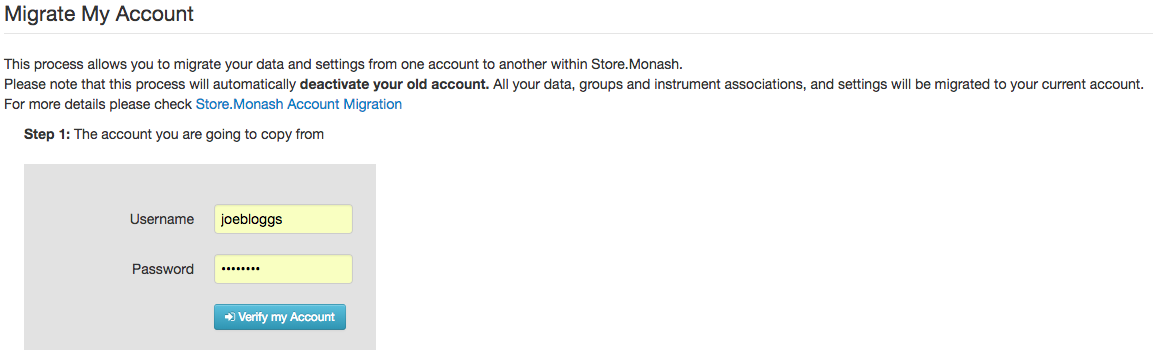
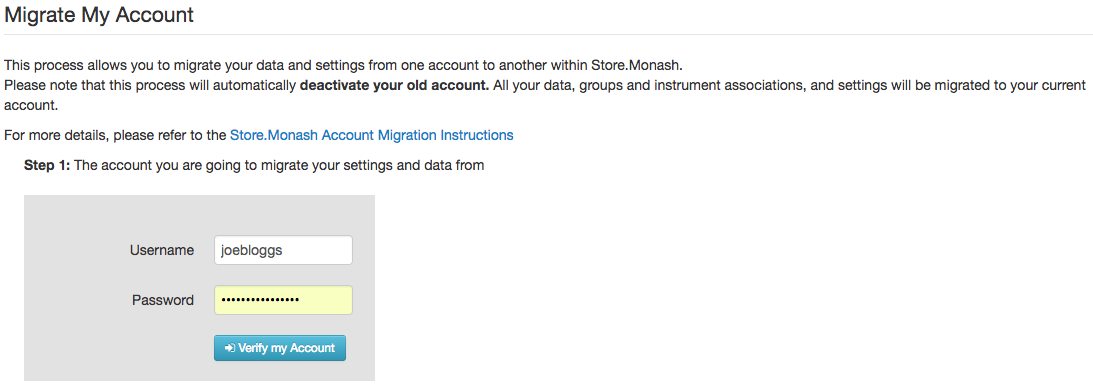
Updating docs

Changed region(s): [[0.0, 0.1554, 0.9954, 0.9944], [0.0, 0.0, 0.1866, 0.0621]]

diff --git a/docs/source/aaf.rst b/docs/source/aaf.rst
@@ -1,0 +1,51 @@
+.. _aaf-label:
+
+Australian Access Federation
+============================
+
+What is the AAF?
+----------------
+
+The Australian Access Federation (AAF) is an identity broker. It enables access to online resources for the Education and Research sector by providing subscribers with a national single sign-on that allows individuals across many different organisations to collaborate and access online resources within a trusted environment. AAF subscriber base includes:
+
+- all Australian Universities
+- CSIRO and other government research agencies as well as leading research support organisations
+- organisations providing online products or services for teaching, learning and research.
+
+You can find more details on https://aaf.edu.au/about/ and  a brief overview about AAF in this video:
+
+.. raw:: html
+
+    <div style="position: relative; padding-bottom: 56.25%; height: 0; overflow: hidden; max-width: 100%; height: auto;">
+        <iframe src="https://www.youtube.com/embed/jJd-bu1HYbc"
+                frameborder="0" allowfullscreen
+                style="position: absolute; top: 0; left: 0; width: 100%; height: 100%;">
+        </iframe>
+    </div>
+    <br/>
+
+
+Store.Monash New Authentication Mechanisms
+------------------------------------------
+
+Store.Monash now supports three authentication mechanisms:
+
+- Monash Identity (previously know as Authcate) 
+- Australian Access Federation
+- Google Authentication (Restricted Access)
+
+We will gradually phase out the direct authentication against the Monash Identity (Authcate) by moving all the accounts to the Australian Access Federation (AAF) as the main authentication mechanism. During this transition phase, Monash users can still use their Monash username and password to access Store.Monash if they prefer to do this.   
+
+Users who cannot use AAF because their organization is not an AAF subscriber can use Google Authentication. This will need an additional admin approval and will be restricted to specific use cases.  
+
+
+Store.Monash Account Migration
+------------------------------
+
+For current Store.Monash users, we built an account migration functionality to facilitate their transition to AAF. The migration functionality moves their Store.Monash settings and data from their Authcate account to their AAF account. The process is very simple and does not include copying your data. It just changes the ownership of your data from your Authcate account to your AAF account. After the completion of this process, you will not be able to use your Authcate account to access Store.Monash. 
+
+See:
+
+- :ref:`aaf-migration-label`
+- :ref:`google-migration-label`
+

diff --git a/docs/source/account_migration_google.rst b/docs/source/account_migration_google.rst
@@ -1,11 +1,13 @@
+.. _google-migration-label:
+
 Store.Monash Account Migration to Google Account
 ================================================
 
-There are now two ways to log in to Store.Monash. You can continue to log in
+There are now multiple ways to log in to Store.Monash. You can continue to log in
 with your Monash username and password. However you are encouraged to try the
 new Australian Access Federation login method:
 
-  .. image:: images/two-ways-to-login.png
+  .. image:: images/store.monash-login.png
 
 Before trying the new login method, you should log in with the Username / Password
 form and verify that you can see your data:
@@ -28,7 +30,7 @@ entering your Monash username and password:
 After verifying your Monash username and password, you will see a Migrate button
 allowing you to make your data available to your new account:
 
-  .. image:: images/migrate-account.png
+  .. image:: images/migrate-account-google.png
 
 After your account has been migrated, you should see your old data available
 when you log in using the new method:

diff --git a/docs/source/index.rst b/docs/source/index.rst
@@ -3,17 +3,23 @@
    You can adapt this file completely to your liking, but it should at least
    contain the root `toctree` directive.
 
-Welcome to Store.Monash's documentation!
-========================================
+Store.Monash
+=============
+
+`Store.Monash <https://store.erc.monash.edu>`_ is `Monash eResearch <https://www.monash.edu/researchinfrastructure/eresearch>`_'s primary deployment of `MyTardis <http://mytardis.org>`_.
+
+Enquiries are welcome at `store.star.help@monash.edu <store.star.help@monash.edu>`_.
+
 
 Contents:
 
 .. toctree::
    :maxdepth: 2
 
+   how_to_log_in
+   aaf
    account_migration_aaf
    account_migration_google
-
 
 Indices and tables
 ==================
@@ -21,4 +27,3 @@ Indices and tables
 * :ref:`genindex`
 * :ref:`modindex`
 * :ref:`search`
-

diff --git a/docs/source/account_migration_aaf.rst b/docs/source/account_migration_aaf.rst
@@ -1,11 +1,13 @@
+.. _aaf-migration-label:
+
 Store.Monash Account Migration to Australian Access Federation Account
 ======================================================================
 
-There are now two ways to log in to Store.Monash. You can continue to log in
+There are now multiple ways to log in to Store.Monash. You can continue to log in
 with your Monash username and password. However you are encouraged to try the
 new Australian Access Federation login method:
 
-  .. image:: images/two-ways-to-login.png
+  .. image:: images/store.monash-login.png
 
 Before trying the new login method, you should log in with the Username / Password
 form and verify that you can see your data:

diff --git a/docs/source/how_to_log_in.rst b/docs/source/how_to_log_in.rst
@@ -1,0 +1,13 @@
+How To Log In
+=============
+
+There are now two ways for Monash users to log in to
+`Store.Monash <https://store.erc.monash.edu>`_.
+You can continue to log in with your Monash username and password. However you
+are encouraged to try the new :ref:`aaf-label` login method.
+
+  .. image:: images/store.monash-login.png
+
+External collaborators should use the :ref:`aaf-label` login method if supported
+at their organization.  If it is not supported, they can click the
+"Log in with your Google Account" link, but this will require an extra activation step.
